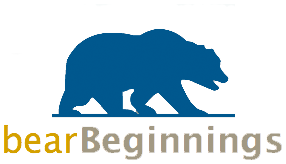
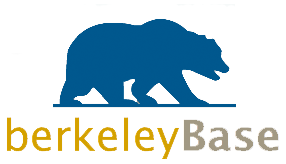
renaming to berkeleyBase

Changed region(s): [[0.0, 0.0915, 1.0, 0.9756], [0.2238, 0.4268, 0.2517, 0.4878]]

diff --git a/wp-content/themes/basetheme/style.css b/wp-content/themes/basetheme/style.css
@@ -487,7 +487,7 @@ div.menu li {
 	font-size: 11px;
 	float: right;
 	width: auto;
-	margin-top: 15px;
+	margin-top: -20px;
 }
 .login ul {
 	list-style: square;
@@ -497,7 +497,7 @@ div.menu li {
 .login li {
 	float: left;
 	position: relative;
-	padding: 3px !important;
+	padding: 0px !important;
 	margin-right: 25px !important;
 /*	background: #eee;*/
 }

diff --git a/wp-content/themes/basetheme/functions.php b/wp-content/themes/basetheme/functions.php
@@ -508,12 +508,13 @@ function shortcode_list_pages( $atts, $content, $tag ) {
 	global $post;
 	
 	$args = array(
-	    'orderby' => 'post_title',
+	    'orderby' => 'title',
 			'order' => 'ASC',
 	    'post_parent' => 0,
 	    'post_type' => 'page',
 	    'post_status' => 'publish',
-			'class'       => $tag
+			'class'       => $tag,
+			'numberposts' => -1
 	);
   $args = shortcode_atts( $args, $atts );
 	
@@ -536,7 +537,7 @@ add_shortcode( 'list-pages', 'shortcode_list_pages' );
 
 function create_custom_post_types() {
 
-$labels = array(
+$startup_labels = array(
     'name' => _x('Startups', 'post type general name'),
     'singular_name' => _x('Startup', 'post type singular name'),
     'add_new' => _x('Add New', 'startup'),
@@ -555,7 +556,7 @@ $labels = array(
 register_post_type('startup',
     array(
         'label'           => __('Startups'),
-			  'labels'          => $labels,
+			  'labels'          => $startup_labels,
         'public'          => true,
         'show_ui'         => true,
         'query_var'       => 'startup',
@@ -598,10 +599,25 @@ register_taxonomy('company-funding', 'company', array(
     )
 );*/
 
+$person_labels = array(
+    'name' => _x('People', 'post type general name'),
+    'singular_name' => _x('Person', 'post type singular name'),
+    'add_new' => _x('Add New', 'person'),
+    'add_new_item' => __('Add New Person'),
+    'edit_item' => __('Edit Person'),
+    'new_item' => __('New Person'),
+    'view_item' => __('View Person'),
+    'search_items' => __('Search People'),
+    'not_found' =>  __('No people found'),
+    'not_found_in_trash' => __('No people found in Trash'), 
+    'parent_item_colon' => '',
+    'menu_name' => 'People'
+);
 
 register_post_type('person',
     array(
         'label'           => __('People'),
+				'labels'					=> $person_labels,
         'public'          => true,
         'show_ui'         => true,
         'query_var'       => 'person',
@@ -616,9 +632,26 @@ register_post_type('person',
 );
 
 
+$group_labels = array(
+    'name' => _x('Groups', 'post type general name'),
+    'singular_name' => _x('Group', 'post type singular name'),
+    'add_new' => _x('Add New', 'group'),
+    'add_new_item' => __('Add New Group'),
+    'edit_item' => __('Edit Group'),
+    'new_item' => __('New Group'),
+    'view_item' => __('View Group'),
+    'search_items' => __('Search Groups'),
+    'not_found' =>  __('No groups found'),
+    'not_found_in_trash' => __('No groups found in Trash'), 
+    'parent_item_colon' => '',
+    'menu_name' => 'Groups'
+);
+
+
 register_post_type('group',
     array(
         'label'           => __('Groups'),
+				'labels'					=> $group_labels,
         'public'          => true,
         'show_ui'         => true,
         'query_var'       => 'group',
@@ -770,7 +803,9 @@ function widget_relatedPeople($args) {
 	  'suppress_filters' => false,
 	  'post_type' => 'person',
 	  'connected' => $post->ID,
-	  'numberposts' => 100
+	  'orderby' => 'title',
+		'order' => 'ASC',
+	  'numberposts' => 20
 	) );
 
   if ($people) {
@@ -809,7 +844,9 @@ function widget_relatedStartups($args) {
 	  'suppress_filters' => false,
 	  'post_type' => 'startup',
 	  'connected' => $post->ID,
-	  'numberposts' => 100
+	  'orderby' => 'title',
+		'order' => 'ASC',
+	  'numberposts' => 20
 	) );
 
   if ($startups) {
@@ -882,10 +919,10 @@ function widget_About($args) {
 
   extract($args);
 
-  echo $before_widget.$before_title.'What is bearBeginnings?'.$after_title;
+  echo $before_widget.$before_title.'What is berkeleyBase?'.$after_title;
 ?>
   <ul>
-     <li><strong>bearBeginnings</strong> is a database of startup initiatives as well as people and various groups involved in entrepreneurship in and around the university campus. It functions like a wiki so that anyone can edit the information.</li>
+     <li><strong>berkeleyBase</strong> is a database of startup initiatives as well as people and various groups involved in entrepreneurship in and around the university campus. It functions like a wiki so that anyone can edit the information.</li>
      <li>The site is exclusive to the UC Berkeley community.  You can either access it from the campus network or register using a 'berkeley.edu' email address.</li>
      <li>Help the Berkeley entrepreneur community by expanding the information on this site.</li>
   </ul>

diff --git a/wp-content/themes/basetheme/header.php b/wp-content/themes/basetheme/header.php
@@ -16,7 +16,7 @@
 	/*
 	 * Print the <title> tag based on what is being viewed.
 	 */
-	global $page, $paged, $post;
+	global $page, $paged, $post, $current_user;
 
 	wp_title( '|', true, 'right' );
 
@@ -61,7 +61,7 @@
 				<?php $heading_tag = ( is_home() || is_front_page() ) ? 'h1' : 'div'; ?>
 				<<?php echo $heading_tag; ?> id="site-title">
 					<span>
-						<a href="<?php echo home_url( '/' ); ?>" title="<?php echo esc_attr( get_bloginfo( 'name', 'display' ) ); ?>" rel="home"><?php echo strtr(get_bloginfo( 'name' ), array("Beginnings" => "<span style='font-weight: bold; color: #a29986'>Beginnings</span><span style='font-weight: normal; font-size: 10px; color: #00588e'>beta</span>")); ?></a>
+						<a href="<?php echo home_url( '/' ); ?>" title="<?php echo esc_attr( get_bloginfo( 'name', 'display' ) ); ?>" rel="home"><?php echo strtr(get_bloginfo( 'name' ), array("Base" => "<span style='font-weight: bold; color: #a29986'>Base</span><span style='font-weight: normal; font-size: 10px; color: #00588e'> beta</span>")); ?></a>
 					</span>
 				</<?php echo $heading_tag; ?>>
 
@@ -76,7 +76,9 @@
 					  if (!is_user_logged_in()) {
 				      wp_register();
 				    } else {
-					    echo '<li><a href="'.admin_url('profile.php').'">My profile</a></li>';
+#					    get_currentuserinfo();
+#					    print_r($current_user);
+					    echo '<li>Logged in as <strong>'.$current_user->display_name.'</strong></li><li><a href="'.admin_url('profile.php').'">My profile</a></li>';
 					  }
 ?>
 			      <li><?php wp_loginout(get_permalink( $post->ID )); ?></li>

diff --git a/wp-config.php b/wp-config.php
@@ -14,6 +14,9 @@
  * @package WordPress
  */
 
+define('WP_HOME','http://localhost/bearbeginnings');
+define('WP_SITEURL','http://localhost/bearbeginnings');
+
 // ** MySQL settings - You can get this info from your web host ** //
 /** The name of the database for WordPress */
 define('DB_NAME', 'vbase');
